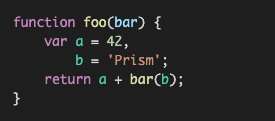
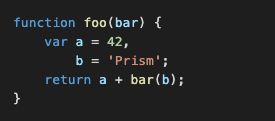
Improve VS Code Dark Plus theme accuracy (#103)

diff --git a/themes/prism-vsc-dark-plus.css b/themes/prism-vsc-dark-plus.css
@@ -3,7 +3,7 @@ code[class*="language-"] {
 	color: #d4d4d4;
 	font-size: 13px;
 	text-shadow: none;
-	font-family: Consolas, Monaco, 'Andale Mono', 'Ubuntu Mono', monospace;
+	font-family: Menlo, Monaco, Consolas, "Andale Mono", "Ubuntu Mono", "Courier New", monospace;
 	direction: ltr;
 	text-align: left;
 	white-space: pre;
@@ -20,9 +20,11 @@ code[class*="language-"] {
 }
 
 pre[class*="language-"]::selection,
-code[class*="language-"]::selection {
+code[class*="language-"]::selection,
+pre[class*="language-"] *::selection,
+code[class*="language-"] *::selection {
 	text-shadow: none;
-	background: #b3d4fc;
+	background: #75a7ca;
 }
 
 @media print {
@@ -52,14 +54,22 @@ pre[class*="language-"] {
 	opacity: .7;
 }
 
+.token.doctype .token.doctype-tag {
+	color: #569CD6;
+}
+
+.token.doctype .token.name {
+	color: #9cdcfe;
+}
+
 .token.comment,
-.token.prolog,
-.token.doctype,
-.token.cdata {
+.token.prolog {
 	color: #6a9955;
 }
 
-.token.punctuation {
+.token.punctuation,
+.language-html .language-css .token.punctuation,
+.language-html .language-javascript .token.punctuation {
 	color: #d4d4d4;
 }
 
@@ -69,7 +79,8 @@ pre[class*="language-"] {
 .token.number,
 .token.constant,
 .token.symbol,
-.token.deleted {
+.token.deleted,
+.token.unit {
 	color: #b5cea8;
 }
 
@@ -82,34 +93,59 @@ pre[class*="language-"] {
 	color: #ce9178;
 }
 
-.token.operator,
-.token.entity,
-.token.url,
-.language-css .token.string,
-.style .token.string {
-	color: #d4d4d4;
-	background: #1e1e1e;
+.language-css .token.string.url {
+	text-decoration: underline;
 }
 
-.token.atrule,
-.token.attr-value,
-.token.keyword {
+.token.operator,
+.token.entity {
+	color: #d4d4d4;
+}
+
+.token.operator.arrow {
+	color: #569CD6;
+}
+
+.token.atrule {
+	color: #ce9178;
+}
+
+.token.atrule .token.rule {
 	color: #c586c0;
 }
 
-.token.function {
+.token.atrule .token.url {
+	color: #9cdcfe;
+}
+
+.token.atrule .token.url .token.function {
 	color: #dcdcaa;
 }
 
-.token.regex,
-.token.important,
-.token.variable {
+.token.atrule .token.url .token.punctuation {
+	color: #d4d4d4;
+}
+
+.token.keyword {
+	color: #569CD6;
+}
+
+.token.keyword.module,
+.token.keyword.control-flow {
+	color: #c586c0;
+}
+
+.token.function,
+.token.function .token.maybe-class-name {
+	color: #dcdcaa;
+}
+
+.token.regex {
 	color: #d16969;
 }
 
-.token.important,
-.token.bold {
-	font-weight: bold;
+.token.important {
+	color: #569cd6;
 }
 
 .token.italic {
@@ -117,19 +153,24 @@ pre[class*="language-"] {
 }
 
 .token.constant {
-	color: #9CDCFE;
+	color: #9cdcfe;
 }
 
-.token.class-name {
-	color: #4EC9B0;
+.token.class-name,
+.token.maybe-class-name {
+	color: #4ec9b0;
+}
+
+.token.console {
+	color: #9cdcfe;
 }
 
 .token.parameter {
-	color: #9CDCFE;
+	color: #9cdcfe;
 }
 
 .token.interpolation {
-	color: #9CDCFE;
+	color: #9cdcfe;
 }
 
 .token.punctuation.interpolation-punctuation {
@@ -140,7 +181,10 @@ pre[class*="language-"] {
 	color: #569cd6;
 }
 
-.token.property {
+.token.property,
+.token.variable,
+.token.imports .token.maybe-class-name,
+.token.exports .token.maybe-class-name {
 	color: #9cdcfe;
 }
 
@@ -148,21 +192,37 @@ pre[class*="language-"] {
 	color: #d7ba7d;
 }
 
+.token.escape {
+	color: #d7ba7d;
+}
+
 .token.tag {
 	color: #569cd6;
+}
+
+.token.tag .token.punctuation {
+	color: #808080;
+}
+
+.token.cdata {
+	color: #808080;
 }
 
 .token.attr-name {
 	color: #9cdcfe;
 }
 
-.token.attr-value {
+.token.attr-value,
+.token.attr-value .token.punctuation {
 	color: #ce9178;
 }
 
+.token.attr-value .token.punctuation.attr-equals {
+	color: #d4d4d4;
+}
+
 .token.entity {
-	color: #4ec9b0;
-	cursor: unset;
+	color: #569cd6;
 }
 
 .token.namespace {
@@ -171,19 +231,30 @@ pre[class*="language-"] {
 /*********************************************************
 * Language Specific
 */
+
 pre[class*="language-javascript"],
-code[class*="language-javascript"] {
-	color: #4ec9b0;
+code[class*="language-javascript"],
+pre[class*="language-jsx"],
+code[class*="language-jsx"],
+pre[class*="language-typescript"],
+code[class*="language-typescript"],
+pre[class*="language-tsx"],
+code[class*="language-tsx"] {
+	color: #9cdcfe;
 }
 
 pre[class*="language-css"],
 code[class*="language-css"] {
-	color: #CE9178;
+	color: #ce9178;
 }
 
 pre[class*="language-html"],
 code[class*="language-html"] {
 	color: #d4d4d4;
+}
+
+.language-regex .token.anchor {
+	color: #dcdcaa;
 }
 
 .language-html .token.punctuation {
